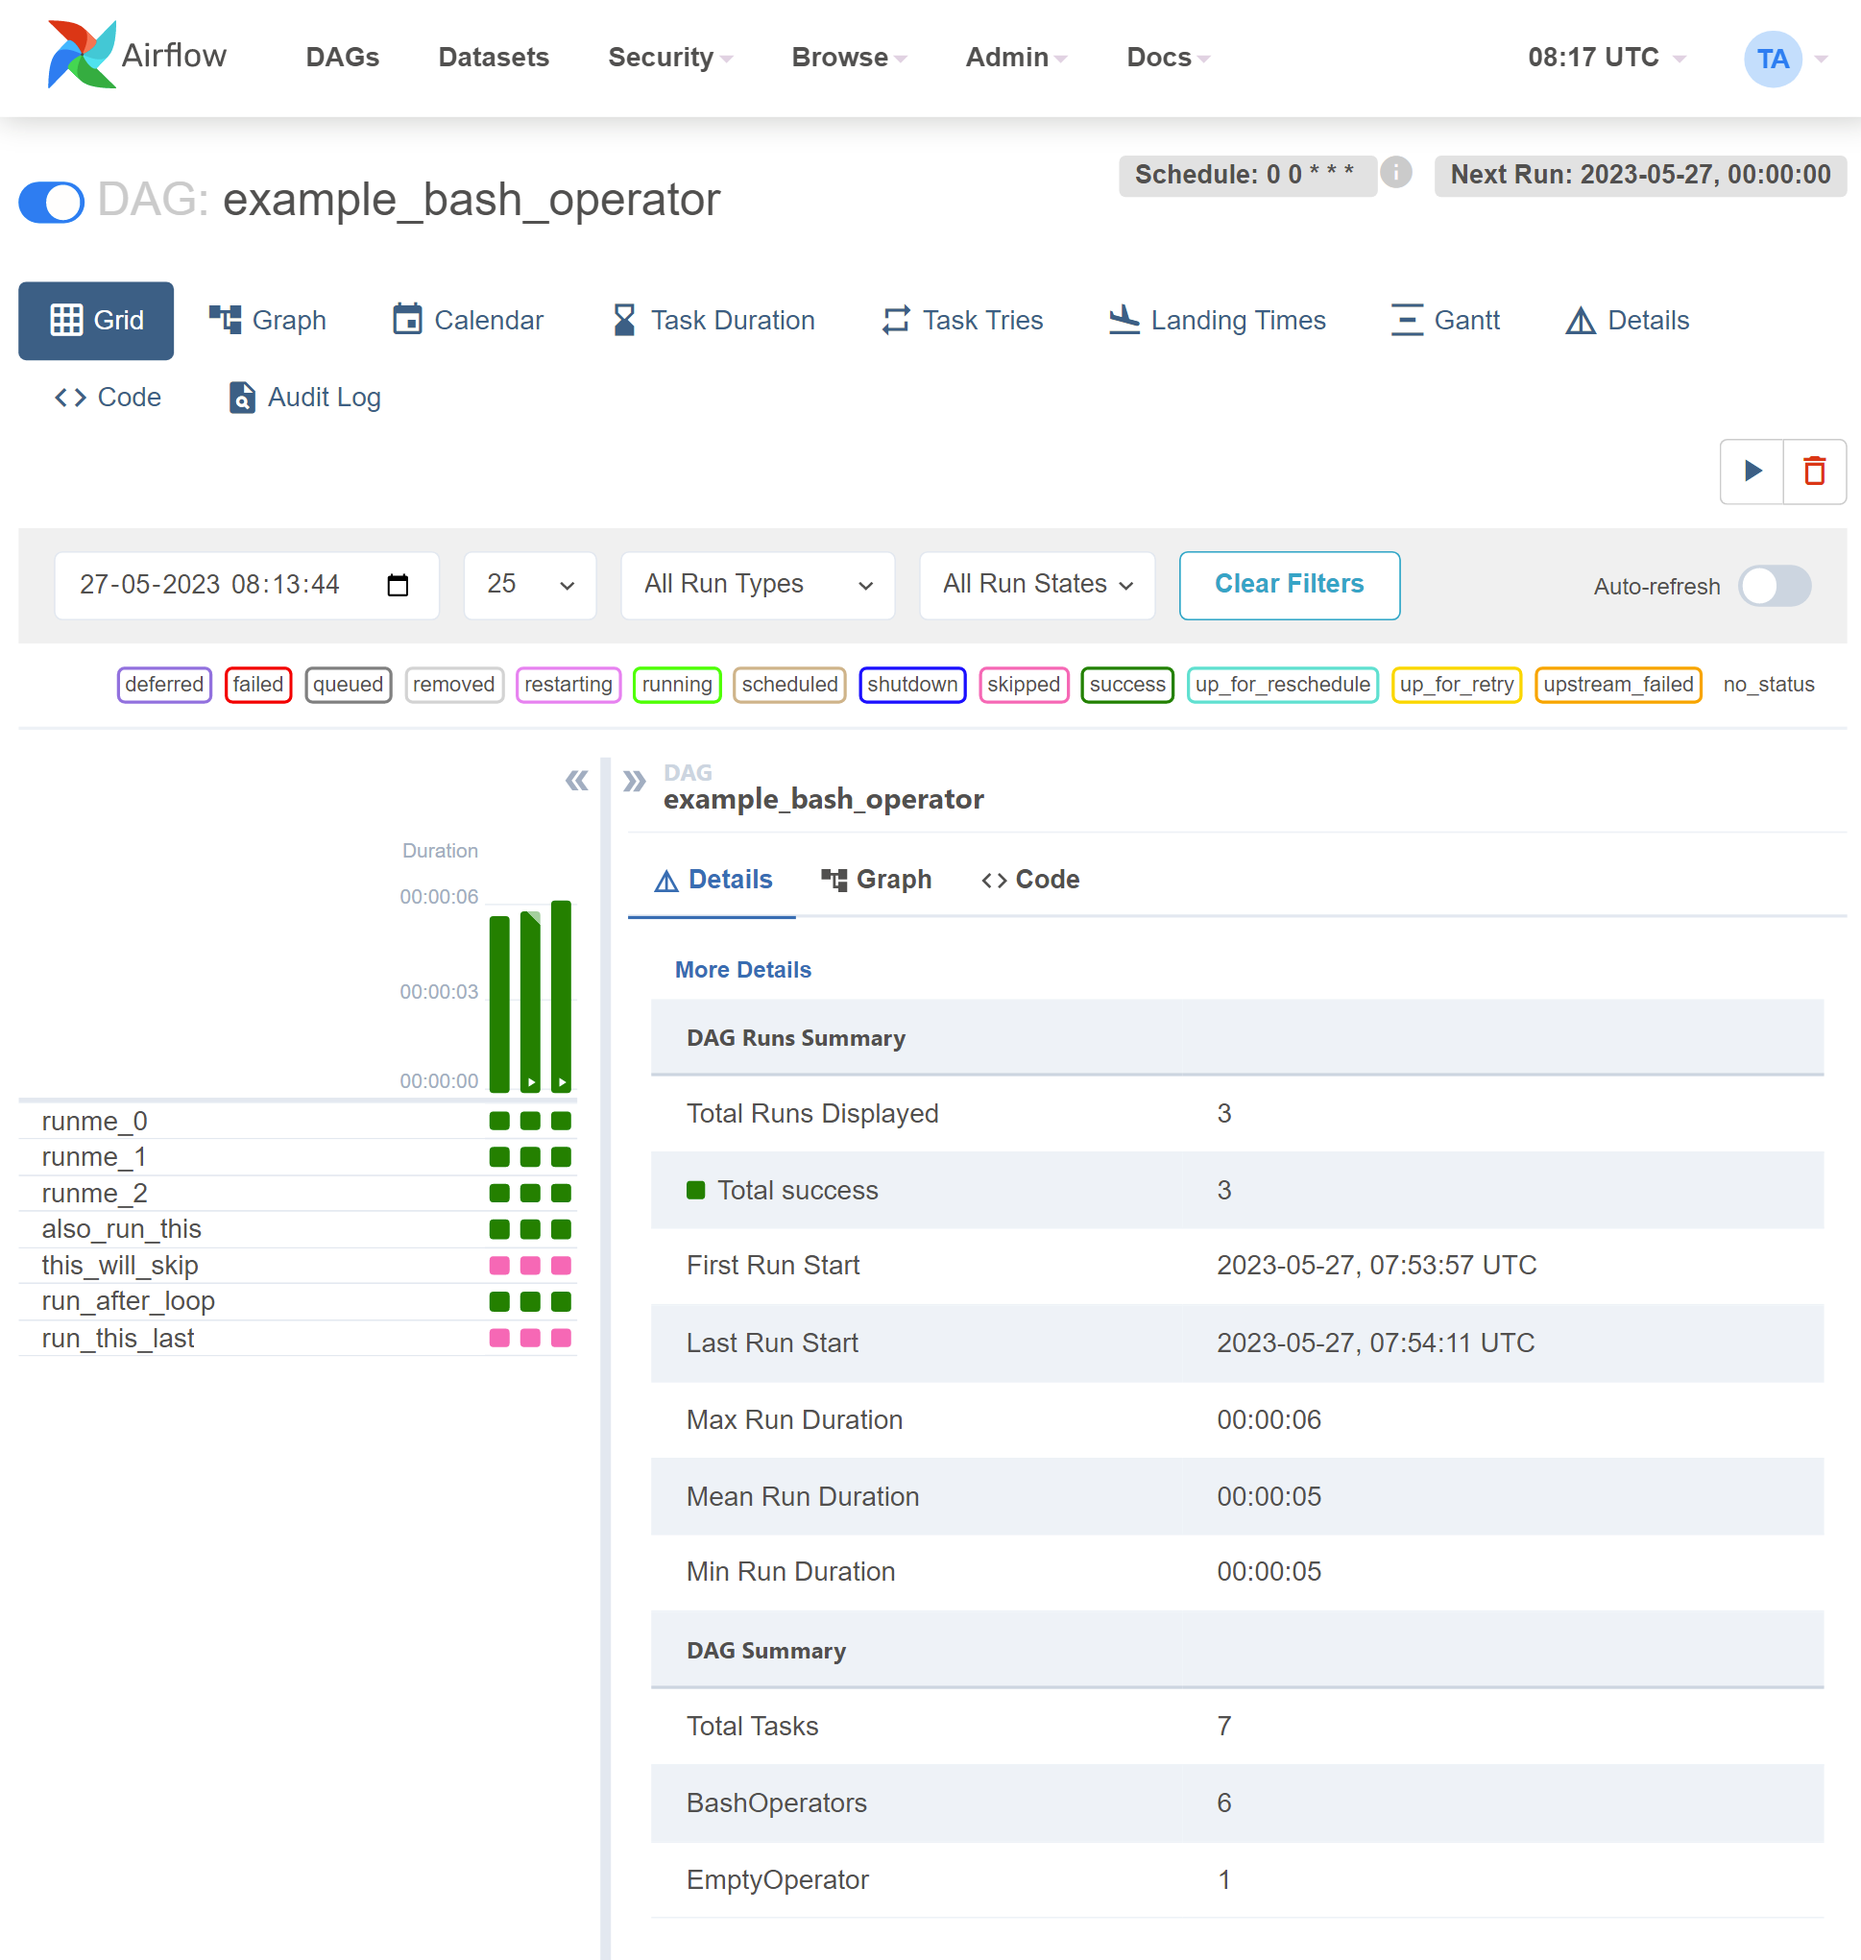
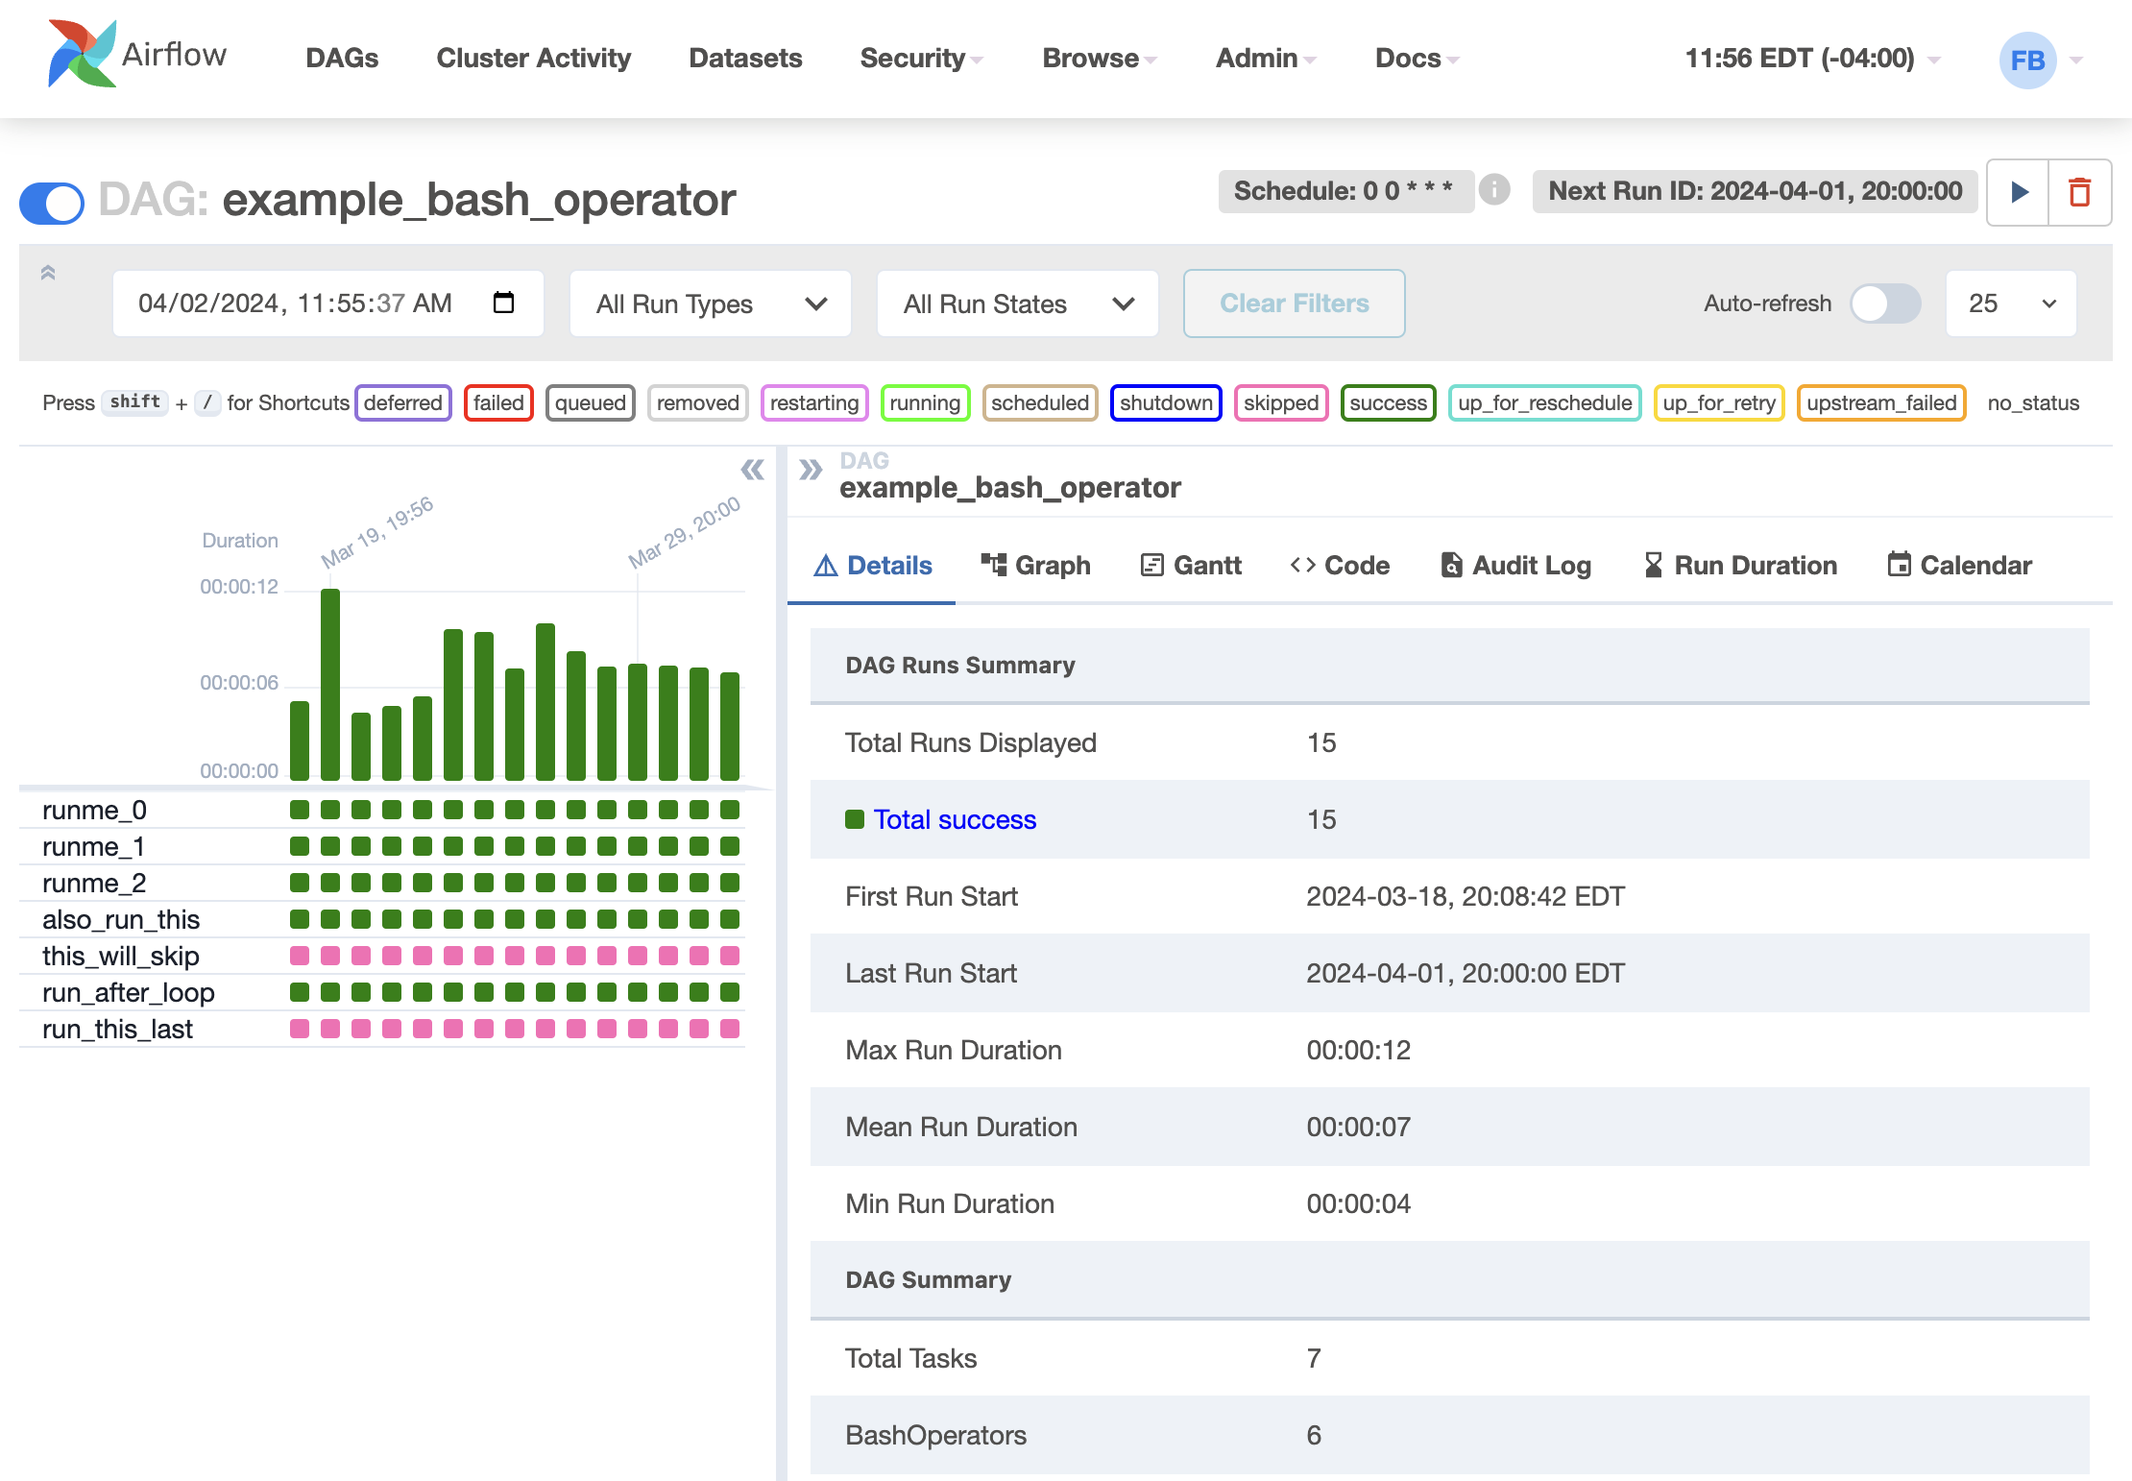
Update UI doc screenshots (#38680)

diff --git a/docs/apache-airflow/ui.rst b/docs/apache-airflow/ui.rst
@@ -100,9 +100,14 @@ Or selecting a Task Instance by clicking on a status box:
 
 .. image:: img/grid_instance_details.png
 
-Manual runs are indicated by a play icon (just like the Trigger DAG button):
+Or selecting a Task across all runs by click on the task_id:
 
-.. image:: img/task_manual_vs_scheduled.png
+.. image:: img/grid_task_details.png
+
+Manual runs are indicated by a play icon (just like the Trigger DAG button).
+Dataset triggered runs are indicated by a database icon:
+
+.. image:: img/run_types.png
 
 Task groups are indicated by a caret and can be opened or closed:
 
@@ -190,7 +195,7 @@ Landing Times
 .............
 
 The landing time for a task instance is the delta between the dag run's data interval end
-(typically this means when the dag "should" run) and the task instance completion time.
+(typically this means when the dag "should" run) and the dag run completion time.
 
 ------------
 
@@ -218,3 +223,15 @@ The form display is based on the DAG Parameters as described in :doc:`core-conce
 ------------
 
 .. image:: img/trigger-dag-tutorial-form.png
+
+Audit Log
+.............
+
+See all events related to a DAG. Filter events by changing the Task and DAG Run
+selection and by including/excluding different event names.
+
+------------
+
+.. image:: img/audit_log.png
+
+------------
